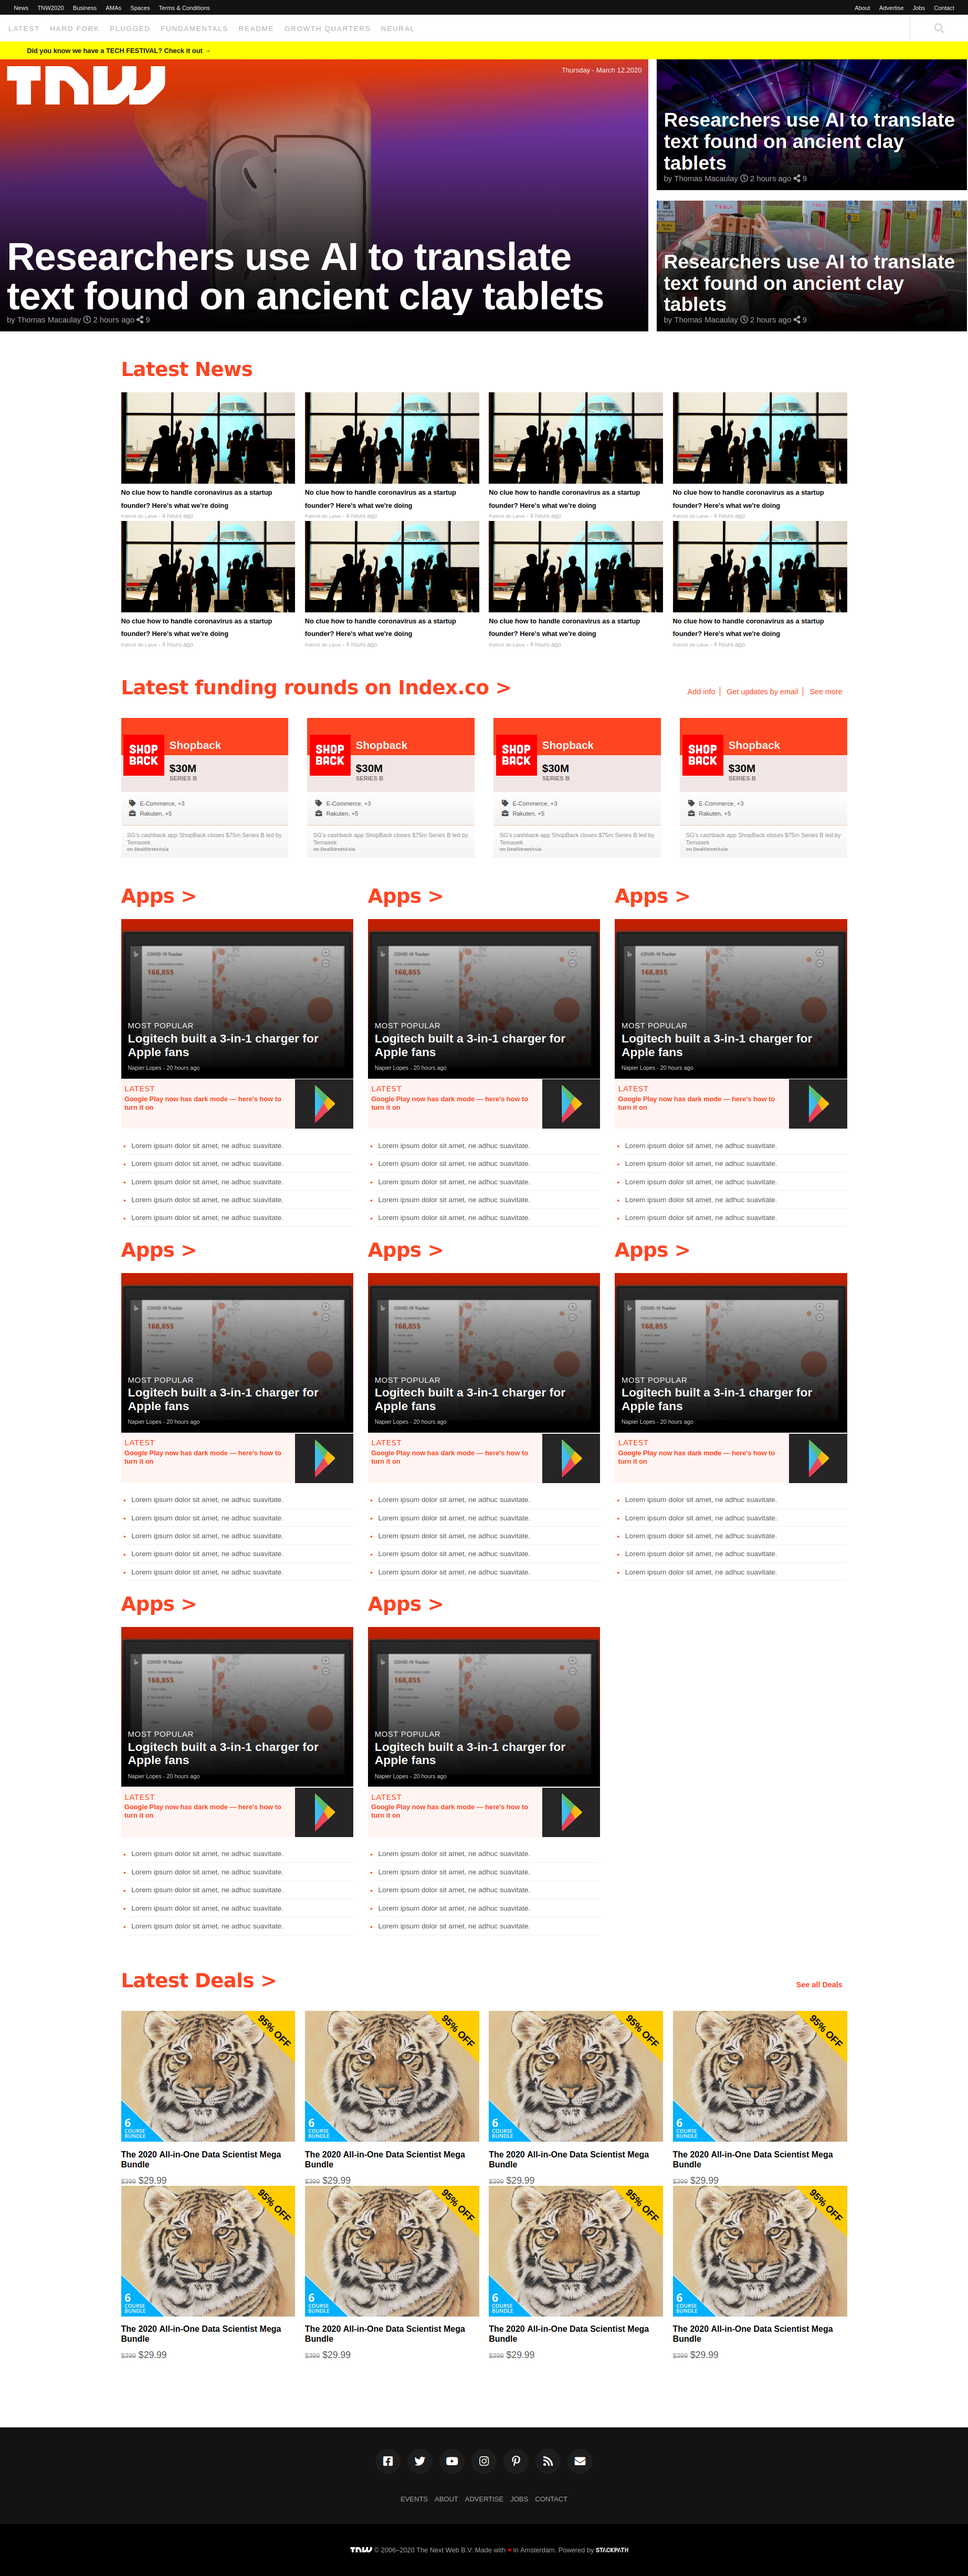
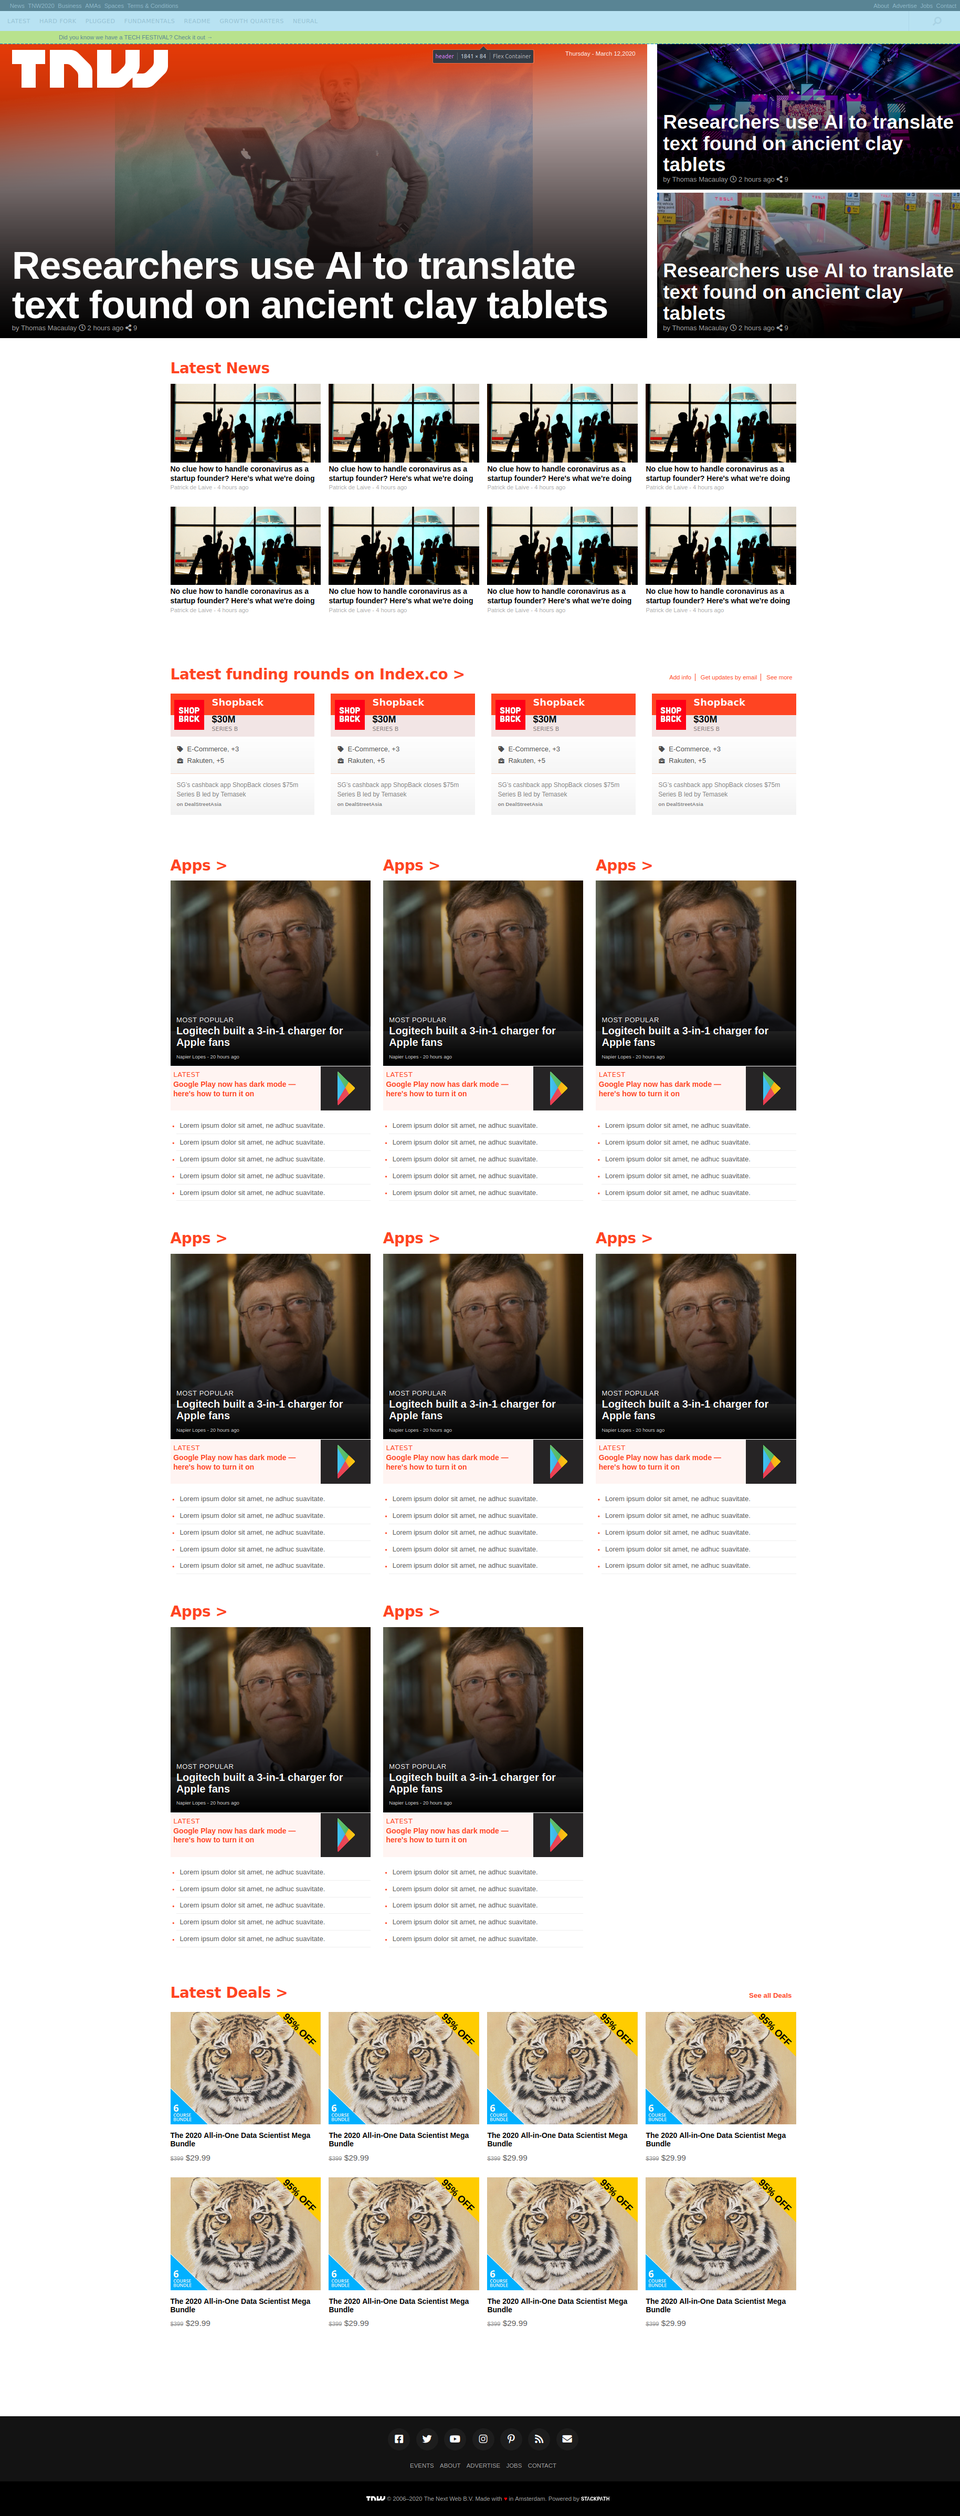
fixed the mobile version and updated screenshots

diff --git a/style.css b/style.css
@@ -8,6 +8,7 @@ html {
   padding: 0;
   margin: 0;
   font-size: 14px;
+  min-width: 520px;
 }
 
 body {
@@ -145,6 +146,10 @@ header {
   font-weight: 900;
 }
 
+.fa-search {
+  transform: rotate(-270deg);
+}
+
 #hidden-icon {
   display: none;
 }
@@ -195,7 +200,6 @@ header {
   z-index: -1;
   background-repeat: no-repeat;
   /*! object-fit: fill; */
-  background-size: 300% auto;
   background-position: top;
 }
 
@@ -212,7 +216,7 @@ header {
   display: flex;
   flex-direction: column;
   justify-content: space-between;
-  padding: 2em 4em;
+  padding: 1em 2em;
   height: 100%;
   width: 100%;
 }
@@ -289,7 +293,7 @@ header {
   z-index: -1;
   position: relative;
   background-repeat: no-repeat;
-  background-size: 288% auto;
+  background-size: 100% auto;
   object-fit: cover;
   display: block;
   background-position: center;
@@ -311,10 +315,10 @@ header {
   z-index: -1;
   position: relative;
   background-repeat: no-repeat;
-  background-size: 287% auto;
+  background-size: 100% auto;
   object-fit: cover;
   display: block;
-  background-position: left;
+  background-position: unset;
 }
 
 /* styling the latest news */
@@ -850,9 +854,17 @@ header {
     padding-right: 0.7rem;
   }
 
-   .latest-news-item {
-     height: 13.75rem;
-   }
+  .main-second-tile-top-background {
+    background-size: 134%;
+  }
+
+  .main-second-tile-bottom-background {
+    background-size: 150%;
+  }
+
+  .latest-news-item {
+    height: 13.75rem;
+  }
 
   .latest-news-item,
   .latest-deals-thumbnails {
@@ -922,10 +934,11 @@ header {
     height: 12vh;
     width: 100%;
     grid-template-columns: 10% 90%;
-    grid-template-rows: 70% 30%;
+    grid-template-rows: 45% 55%;
     grid-template-areas:
       "logo white-nav"
       "yellow-nav yellow-nav";
+    min-height: 6rem;
   }
 
   .white-nav {
@@ -943,6 +956,7 @@ header {
     justify-content: center;
     height: 100%;
     width: 100%;
+    min-width: 6rem;
   }
 
   .top-nav-tnw-logo {
@@ -950,17 +964,23 @@ header {
   }
 
   .navigation-second-icons {
-    width: 25%;
+    width: 15%;
   }
 
   .navigation-third {
     grid-area: yellow-nav;
     width: 100%;
     height: 100%;
+    display: flex;
+    justify-content: center;
+  }
+
+  .navigation-third-anchor {
+    padding-left: 0;
   }
 
   .fa-bars {
-    color: brown;
+    color: #f42;
   }
 
   /* the main titles section */
@@ -968,16 +988,17 @@ header {
   .main-tiles {
     display: flex;
     flex-direction: column;
-    width: 96%;
+    width: 98%;
     min-height: 100vh;
-    margin-left: 2%;
-    margin-right: 2%;
+    margin-left: 1%;
+    margin-right: 1%;
+    padding: 0;
   }
 
   .main-tiles-first-tile {
     width: 100%;
-    height: 33%;
-    margin-bottom: 1rem;
+    height: 33vh;
+    /* margin-bottom: 1rem; */
   }
 
   .first-tile-date {
@@ -986,16 +1007,16 @@ header {
 
   .main-tiles-second-tile-container {
     width: 100%;
-    height: 60%;
+    height: 66vh;
   }
 
   .main-second-tile-top-background {
-    height: 48%;
+    height: 49%;
     width: 100%;
   }
 
   .main-second-tile-bottom-background {
-    height: 48%;
+    height: 49%;
     width: 100%;
   }
 
@@ -1036,8 +1057,8 @@ header {
   .latest-deals-thumbnails {
     width: 100%;
     height: auto;
-    padding: 1em 0;
     display: flex;
+    margin-bottom: 1rem;
   }
 
   .latest-news-items-container {
@@ -1056,15 +1077,15 @@ header {
   .latest-news-item-img,
   .latest-deals-background {
     object-fit: cover;
-    width: 7rem;
-    height: 6rem;
+    width: 5.3rem;
+    height: 5.3rem;
     margin-right: 1.5em;
   }
 
   .latest-news-item-h3-a {
-    font-size: 14px;
+    font-size: 1rem;
     font-weight: 700;
-    line-height: 18px;
+    line-height: 1.286em;
   }
 
   .latest-news-item-h4-a {
@@ -1106,13 +1127,12 @@ header {
   }
 
   .funding-thumbnail-head-img {
-    width: 16%;
+    width: 5.5rem;
     margin-top: auto;
     margin-bottom: auto;
   }
 
   .funding-thumbnail-head-right-bottom {
-    margin-bottom: 0.8em;
   }
 
   .funding-thumbnail-middle-p {
@@ -1174,6 +1194,7 @@ header {
 
   .latest-deals-title h3 {
     width: 25%;
+    text-align: end;
   }
 
   .latest-deals-thumbnails-h3 {
